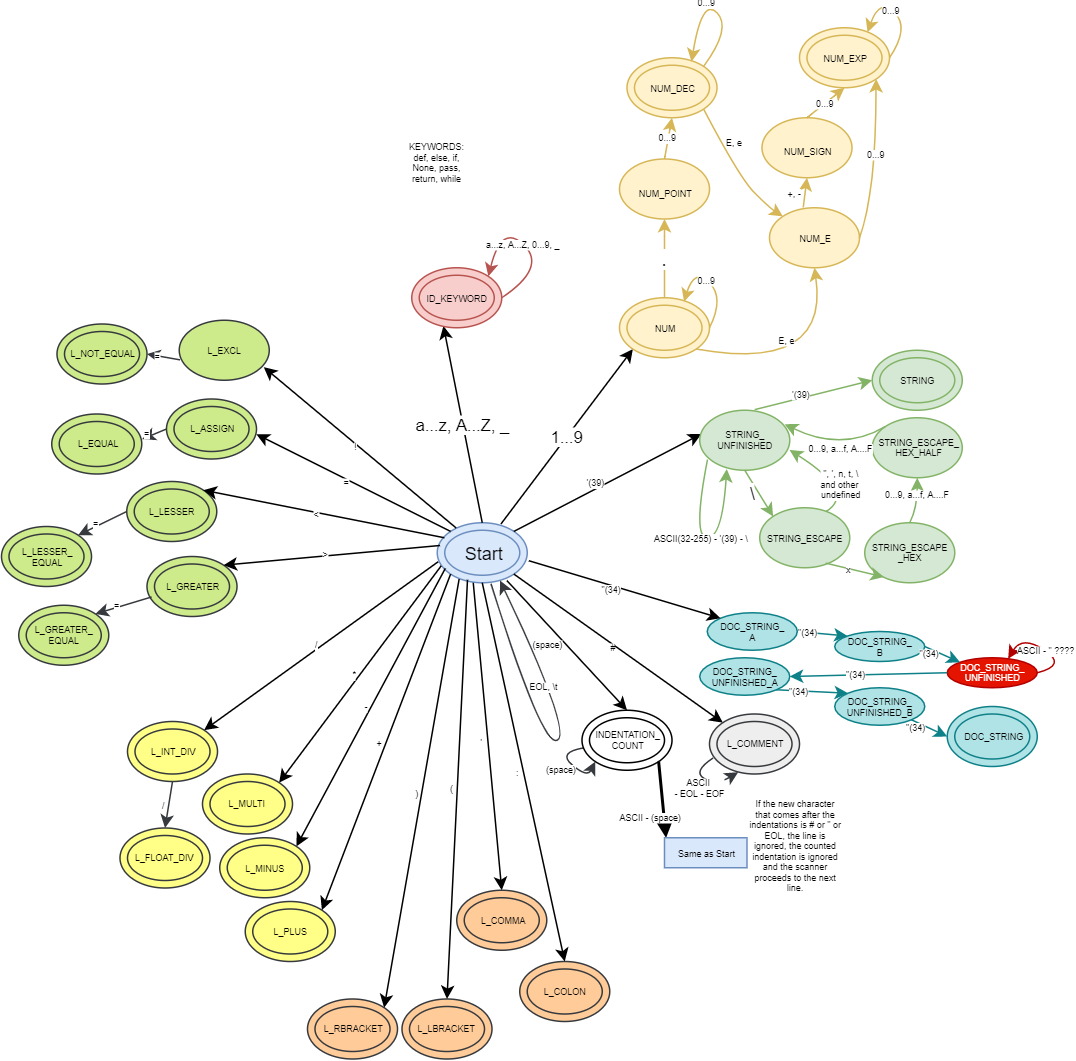
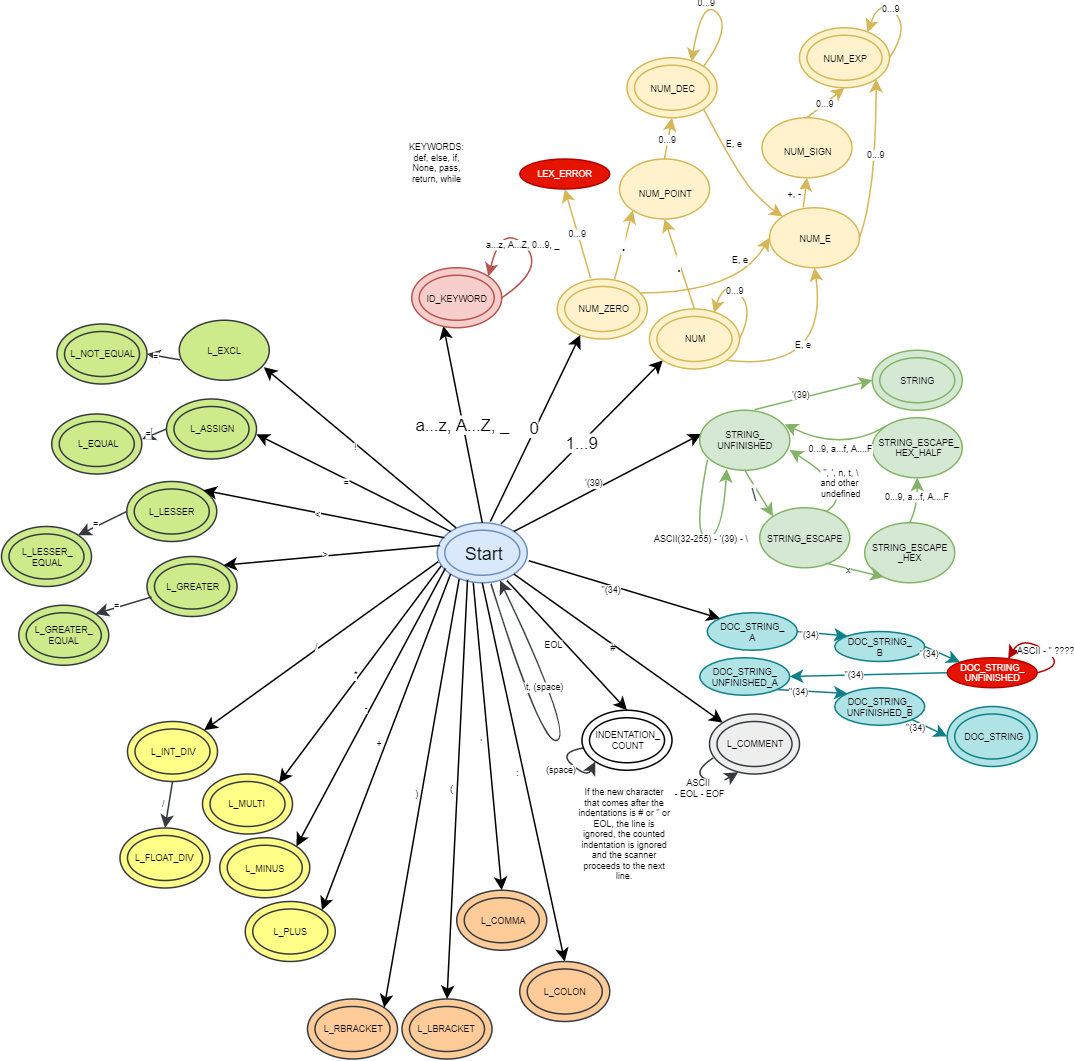
Fixed decimal number and dedentation bugs in scanner

diff --git a/scanner.h b/scanner.h
@@ -21,7 +21,9 @@
 #include "custom_string.h"
 #include "stack.h"
 
-// Enum of all the possible states
+/**
+ * @enum States
+ */
 typedef enum
 {
     // Start
@@ -32,6 +34,7 @@ typedef enum
 
     // Number
     stNUM,
+    stNUM_ZERO,
     stNUM_POINT,
     stNUM_DEC,
     stNUM_E,
@@ -85,7 +88,9 @@ typedef enum
 } tState;
 
 
-// Enum of all the possible token types
+/**
+ * @enum Token types
+ */
 typedef enum
 {
     TOKEN_IDENTIFIER, //0
@@ -128,42 +133,82 @@ typedef enum
     TOKEN_UNDEFINED
 } tokenType;
 
-// Struct of type Token
+/**
+ * @struct Token struct
+ */
 typedef struct
 {
     tokenType type;
     tString *attribute;
 } Token;
 
+/**
+ * @var Stack for indentation counting
+ */
 tStack indent_stack;
-// 1 if the stack is being emptied
+
+/**
+ * @var Equals 1 if currently dedenting, 0 otherwise
+ */
 int state_dedenting;
-// stores the searched indentation value
+
+/**
+ * @var Indentation value that is being searched for in the stack
+ */
 int searched_value;
-// 1 if eof has been reached and the stack is being emptied
+
+/**
+ * @var Equals 1 when EOF has been found, 0 otherwise
+ */
 int eof_reached;
 
-// Returns 1 if the character is a letter, 0 otherwise
+/**
+ * @brief Checks if the character is a letter
+ * @param c Checked character
+ * @return 1 if letter, 0 otherwise
+ */
 int isCharAlpha(char c);
 
-// Returns 1 if the character is a digit, 0 otherwise
-int isCharDigit(char c);
+/**
+ * @brief Checks if the character is a digit
+ * @param c Checked character
+ * @return 1 if digit, 0 otherwise
+ */
+ int isCharDigit(char c);
 
-// Returns 1 if the character is a keyword, 0 otherwise
+/**
+ * @brief Checks if the string is a keyword
+ * @param s Checked string
+ * @return 1 if keyword, 0 otherwise
+ */
 int isStringKeyword(tString *s);
 
-// Finishes all operations before returning the token
+/**
+ * @brief Finishes all required operations before returning a token
+ * @param token Current token
+ * @return 0
+ */
 int finalize(Token *token);
 
-// Dedents the stack and tries to find the searched value on the stack
+/**
+ * @brief Tries to find the searched indentation value on the stack
+ * @param token Current token
+ * @return 0 if found, 1 if empty, -1 and dedent token if not found
+ */
 int dedent_stack(Token *token);
 
-// Empties the stack after reading EOF
+/**
+ * @brief Removes one value and generates dedent, or generates eof if empty stack
+ * @param token Current token
+ * @return 0
+ */
 int empty_stack(Token *token);
 
-// Reads the next token, returns error code(0, 1, 99)
+/**
+ * @brief Reads the next token
+ * @param token Reference to the token to rewrite with a new one
+ * @return 0 if success, 1 if lex_error, 99 if internal error
+ */
 int get_token(Token *token, FILE *file);
-
-
 
 #endif // SCANNER_H_INCLUDED

diff --git a/scanner.c b/scanner.c
@@ -143,6 +143,13 @@ int get_token(Token *token, FILE *file)
         return finalize(token);
     }
 
+    // If last token was end of line, a new line is being read
+    // When a new line is being read, check the indentation first
+    if (last_token_eol == 1)
+    {
+        state = stINDENTATION_COUNT;
+    }
+
     // If the scanner is currently in the dedenting state, dedent instead of reading from the file
     // Tries to find the searched value on the stack
     // (-1)Generates DEDENT for each stack_pop
@@ -173,6 +180,14 @@ int get_token(Token *token, FILE *file)
                 if (isCharAlpha(c) || c == '_') // a...Z
                 {
                     state = stID_KEYWORD;
+                    if (string_append_char(token->attribute, c) != 0)
+                    {
+                        return 99;
+                    }
+                }
+                else if (c == '0') // 0
+                {
+                    state = stNUM_ZERO;
                     if (string_append_char(token->attribute, c) != 0)
                     {
                         return 99;
@@ -316,6 +331,34 @@ int get_token(Token *token, FILE *file)
             //
             // NUMBER SECTION
             //
+            // stNUM_ZERO
+            case stNUM_ZERO:
+                if (c == '.')
+                {
+                    if (string_append_char(token->attribute, c) != 0)
+                    {
+                        return 99;
+                    }
+                    state = stNUM_POINT;
+                } else if (c == 'E' || c == 'e')
+                {
+                    if (string_append_char(token->attribute, 'e') != 0)
+                    {
+                        return 99;
+                    }
+                    state = stNUM_E;
+                } else if (isCharDigit(c))
+                {
+                    token->type = TOKEN_UNDEFINED;
+                    return 1;
+                } else
+                {
+                    ungetc(c, file);
+                    token->type = TOKEN_NUM;
+                    return finalize(token);
+                }
+                break;
+            // End of stNUM_ZERO
             // stNUM
             case stNUM:
                 if (isCharDigit(c))

diff --git a/parser.c b/parser.c
@@ -44,7 +44,7 @@ int analyse()
     {
         if ((err_code = get_token(&newToken, file)) != 0)
         {
-            return err_code;
+            break;
         } else
         {
             printf("Token %d:\n", i);
@@ -54,17 +54,10 @@ int analyse()
             printf("\n");
             if (newToken.type == TOKEN_EOF)
             {
-                return 0;
+                break;
             }
         }
     }
-
-
-    // TESTING
-    //printf("Token attribute: ");
-    //string_print(newToken.attribute);
-    //printf("Token type: %d\n", newToken.type);
-    // /TESTING
 
     // TESTING WITH FILE
     fclose(file);
@@ -74,7 +67,6 @@ int analyse()
 
     // Free token
     string_free(newToken.attribute);
-    free(newToken.attribute);
 
     return err_code;
 }

diff --git a/parser.h b/parser.h
@@ -20,7 +20,10 @@
 #include "scanner.h"
 #include "custom_string.h"
 
-// Main function of the parser, called from main, returns error code
+/**
+ * @brief Main parser function
+ * @return Returns error code
+ */
 int analyse();
 
 #endif // PARSER_H_INCLUDED
